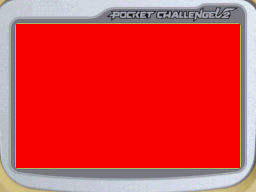
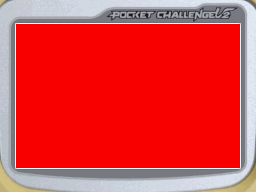
Fixed showing of correct border for machine. Tweaked borders for all machines.

diff --git a/source/Main.c b/source/Main.c
@@ -74,11 +74,11 @@ int main(int argc, char **argv) {
 	setupGUI();
 	getInput();
 	initSettings();
-	machineInit();
-	loadCart();
 	bool fsOk = initFileHelper();
 	loadSettings();
-	setupEmuBorderPalette();
+	machineInit();
+	loadCart();
+	setupEmuBackground();
 	loadIntEeproms();
 	if (fsOk) {
 		loadBnWBIOS();
@@ -204,8 +204,6 @@ static void setupGraphics() {
 	REG_BG1VOFS_SUB = 0;
 	map0sub = BG_MAP_RAM_SUB(0);
 	map1sub = BG_MAP_RAM_SUB(1);
-
-	setupEmuBackground();
 
 	decompress(EmuFontTiles, BG_GFX_SUB+0x1200, LZ77Vram);
 	setupMenuPalette();

diff --git a/source/FileHandling.c b/source/FileHandling.c
@@ -161,6 +161,9 @@ int loadSettings() {
 	joyMapping    = (joyMapping & ~1)|((cfg.controller & 2)>>1);
 	gMachineSet   = (cfg.machine>>1) & 0x7;
 	strlcpy(currentDir, cfg.currentPath, sizeof(currentDir));
+	if (gMachineSet != HW_AUTO) {
+		gMachine = gMachineSet;
+	}
 
 	infoOutput("Settings loaded.");
 	return 0;

diff --git a/source/Gui.c b/source/Gui.c
@@ -14,7 +14,7 @@
 #include "ARMV30MZ/Version.h"
 #include "Sphinx/Version.h"
 
-#define EMUVERSION "V0.6.6 2024-09-16"
+#define EMUVERSION "V0.6.6 2024-09-18"
 
 #define ALLOW_SPEED_HACKS	(1<<17)
 #define ENABLE_HEADPHONES	(1<<18)
